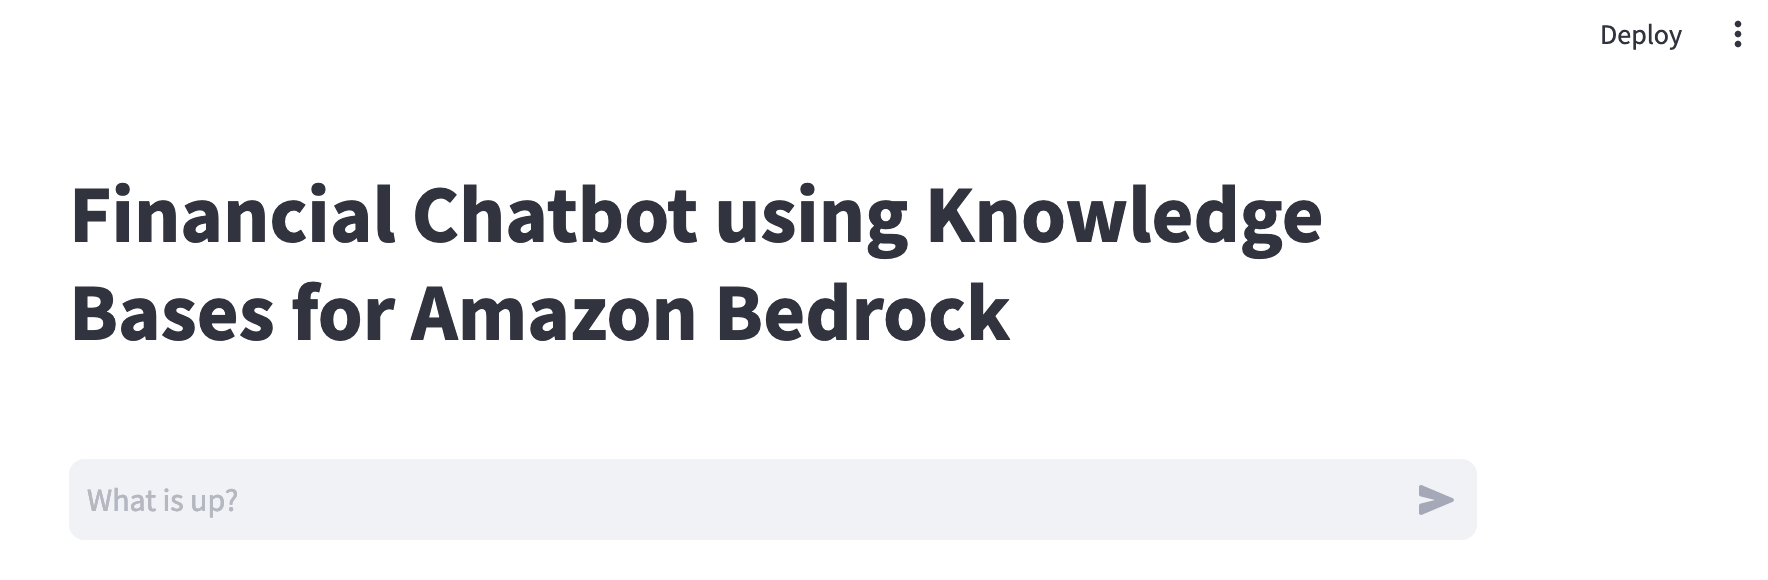
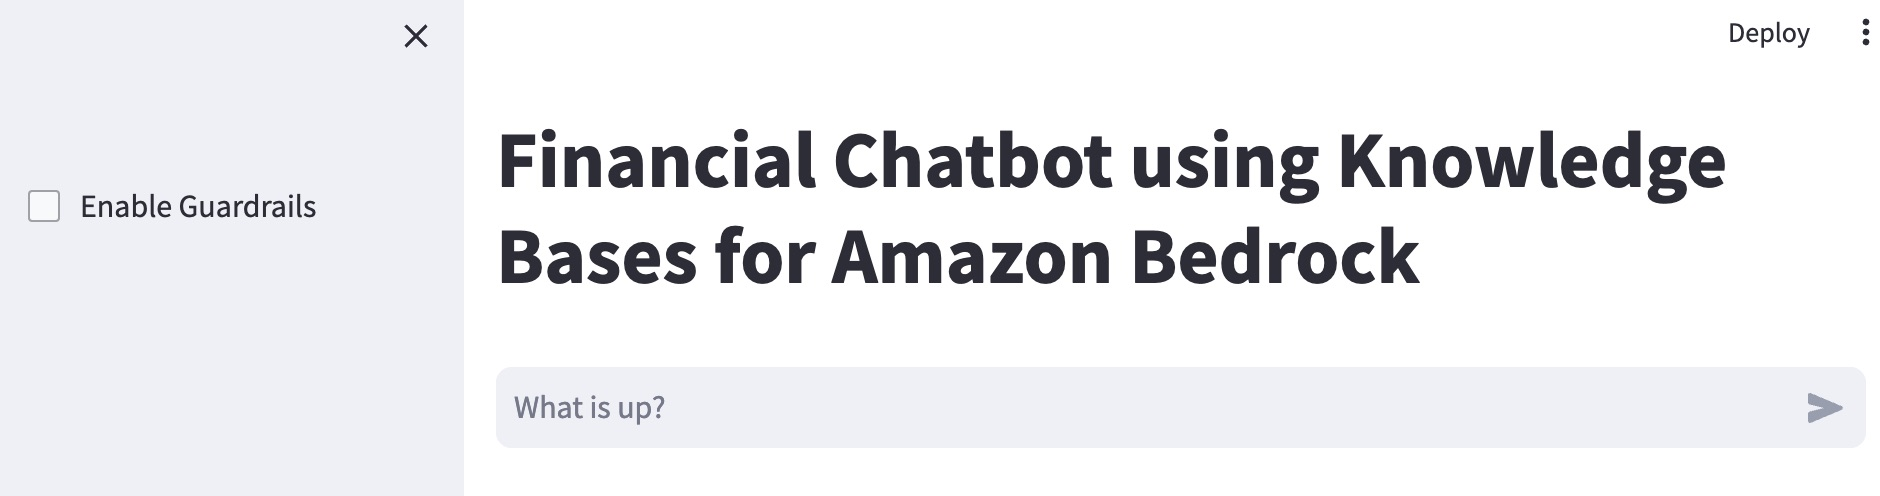
Updated screenhots to showcase the new checkbox for guardrails.

diff --git a/rag-solutions/contextual-chatbot-using-knowledgebase-guardrails/README.md b/rag-solutions/contextual-chatbot-using-knowledgebase-guardrails/README.md
@@ -215,21 +215,18 @@ If you already have Streamlit, make sure you have a current version
 
 </br><img src="images/streamlit-filled.jpg" alt="streamlit-filled" width="500" align="center" border="1"/></br>
 
+</br><img src="images/streamlit-filled-checked.jpg" alt="streamlit-filled-checked" width="500" align="center" border="1"/></br>
+
 When you submit a prompt, the Streamlit app triggers the Lambda function, which invokes the Knowledge Bases RetrieveAndGenerate API to search and generate responses.
 
 The following table includes some sample questions and related knowledge base responses. Try out some of these questions by using prompts. 
 
 | Questions | Answers |
 | --------- | ------- |
-| What is Amazon's doing in the field of generative AI? |	Amazon has been working on their own large language models (LLMs) for generative AI and believes it will transform and improve every customer experience. They plan to continue investing substantially in these models across all their consumer, seller, brand, and creator experiences. |
-| What is AWS year-over-year revenue in 2022? | AWS revenue grew 29% year-over-year in 2022 on a $62 billion revenue base in 2021.
-How many days has Amazon asked employees to come to work in office? | Amazon has asked corporate employees to come back to office at least three days a week beginning May 2022. |
-| By what percentage did AWS revenue grow year-over-year in 2022? | AWS had a 29% year-over-year ('YoY') revenue in 2022. |
-| Compared to Graviton2 processors, what performance improvement did Graviton3 chips deliver according to the passage? | In 2022, AWS delivered their Graviton3 chips, providing 25% better performance than the Graviton2 processors. |
-| Which was the first inference chip launched by AWS according to the passage? | AWS launched their first inference chips (“Inferentia”) in 2019, and they have saved companies like Amazon over a hundred million dollars in capital expense. | 
-| According to the context, in what year did Amazon's annual revenue increase from $245B to $434B?	| Amazon's annual revenue increased from $245B in 2019 to $434B in 2022. |
 | **Uncheck Enable Guardrails**  How did Google do in 2023 ?  	| The search results do not contain any information about Google's business performance in 2023. |
 | **Check Enable Guardrails**  How did Google do in 2023 ? 	| Sorry, the model cannot answer this question. |
+| What is Amazon's doing in the field of generative AI? |	Amazon has been working on their own large language models (LLMs) for generative AI and believes it will transform and improve every customer experience. They plan to continue investing substantially in these models across all their consumer, seller, brand, and creator experiences. |
+| What is AWS year-over-year revenue in 2022? | AWS revenue grew 29% year-over-year in 2022 on a $62 billion revenue base in 2021.
 
 During the first call to the Lambda function, the ```RetrieveAndGenerate``` API returns a ```sessionId```, which is then passed by the Streamlit app along with the subsequent user prompt as an input to the ```RetrieveAndGenerate``` API to continue the conversation in the same session. The ```RetrieveAndGenerate``` API manages the short-term memory and uses the chat history as long as the same ```sessionId``` is passed as an input in the successive calls. When Enable Guardrails is checked we pass ```generationConfiguration``` and provide the ```guardrailsId```. 
 
